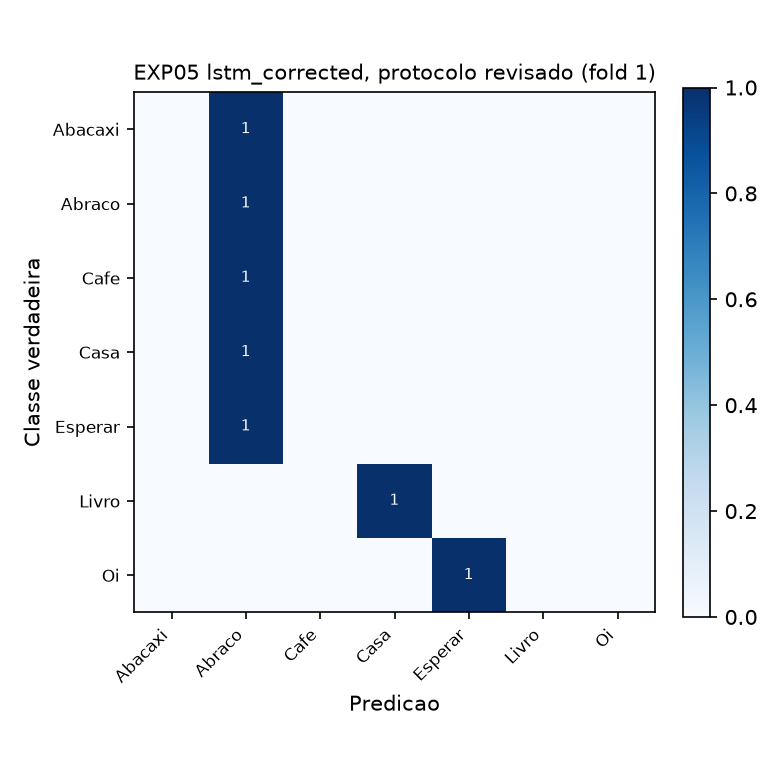
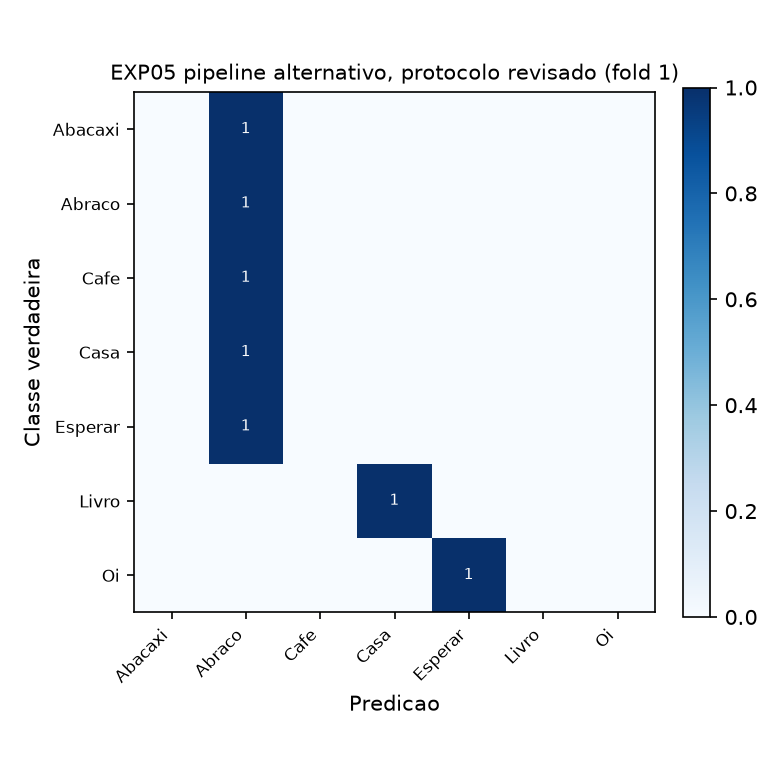
Alinha README e graficos aos termos do artigo

Changed region(s): [[0.1538, 0.0615, 0.8615, 0.1231]]

diff --git a/experiments/exp05_pipeline_corrigido_loso.py b/experiments/exp05_pipeline_corrigido_loso.py
@@ -184,7 +184,7 @@ def main() -> None:
             plot_confusion_matrix(
                 first_cm, samples.class_names,
                 cfg.results_dir / f"{run_name}_{model_name}_confusao.png",
-                title=f"EXP05 {model_name}, protocolo {protocolo} (fold 1)",
+                title=f"EXP05 pipeline alternativo, protocolo {protocolo} (fold 1)",
             )
 
     banner("EXP05 conclusao")

diff --git a/README.md b/README.md
@@ -71,9 +71,9 @@ exp05, exp06 e exp07 tambem gravam um modelo treinado em `results/modelos/*.pth`
 um por ablacao do exp06 e um por condicao do exp07. Rodadas `--smoke` gravam com
 sufixo `_smoke`. Os arquivos `.pth` ficam fora do git.
 
-O modelo e treinado com **todos** os videos depois da avaliacao LOSO, entao nao ha
-teste independente dele: o desempenho esperado em um sinalizador novo e a acuracia
-LOSO do experimento, gravada dentro do arquivo (`info["avaliacao_loso"]`). Os modelos
+O modelo e treinado com **todos** os videos depois da avaliacao por sinalizador, entao
+nao ha teste independente dele: o desempenho esperado em um sinalizador novo e a
+acuracia dessa avaliacao, gravada dentro do arquivo (`info["avaliacao_loso"]`). Os modelos
 dos folds nao sao salvos. exp01 a exp04 nao gravam modelo: reproduzem o pipeline
 original, que classifica pontos 3D soltos.
 
@@ -107,8 +107,8 @@ make demo                      # ou: python -m app.demo [--camera 1] [--config c
   (mediana da duracao dos videos de treino, ajustavel na tela). Sem mao na janela,
   nao ha predicao.
 
-A tela mostra a acuracia LOSO do modelo, que e o desempenho esperado em uma pessoa
-nova. Os quadros sao recortados para 16:9, o aspecto dos videos de treino, antes do
+A tela mostra a acuracia da avaliacao por sinalizador, que e o desempenho esperado em
+uma pessoa nova. Os quadros sao recortados para 16:9, o aspecto dos videos de treino, antes do
 mesmo redimensionamento da extracao. A demo nao e resultado do TCC.
 
 ## Duas configuracoes
@@ -149,7 +149,7 @@ e criterios de leitura em `docs/05_protocolo_experimento1.md`.
 | `exp07_aumento_dados` | Aumentar os dados de treino melhora o reconhecimento em sinalizadores nunca vistos? |
 
 `exp01` a `exp04` formam a reproducao e os controles. `exp05` a `exp07` formam o
-pipeline proposto; `exp05` e o resultado principal. O registro previo do `exp07` esta em
+pipeline alternativo; `exp05` e o resultado principal. O registro previo do `exp07` esta em
 `docs/06_protocolo_exp07_aumento.md`.
 
 `diag_exp05` nao e experimento do TCC: e o diagnostico que motivou a revisao do
@@ -199,10 +199,10 @@ src/
   seeding.py              fixacao de seed
   landmarks_spec.py       vetor de features por frame, normalizacao, reamostragem
   extract_landmarks.py    MediaPipe Holistic, roda uma vez, gera o cache
-  dataset.py              dataset corrigido (uma amostra = um video)
+  dataset.py              dataset do pipeline alternativo (uma amostra = um video)
   splits.py               split agrupado por video e por sinalizador
   augment.py              aumento de dados do exp07, aplicado so ao treino
-  models.py               LSTMOriginal (replica fiel) e versoes corrigidas
+  models.py               LSTMOriginal (replica fiel) e LSTMCorrected (pipeline alternativo)
   train.py                laco de treino com early stopping na validacao
   evaluate.py             metricas com nomes corretos, matriz de confusao
   baseline_original.py    reproducao fiel do pipeline original, para exp01 a exp04
